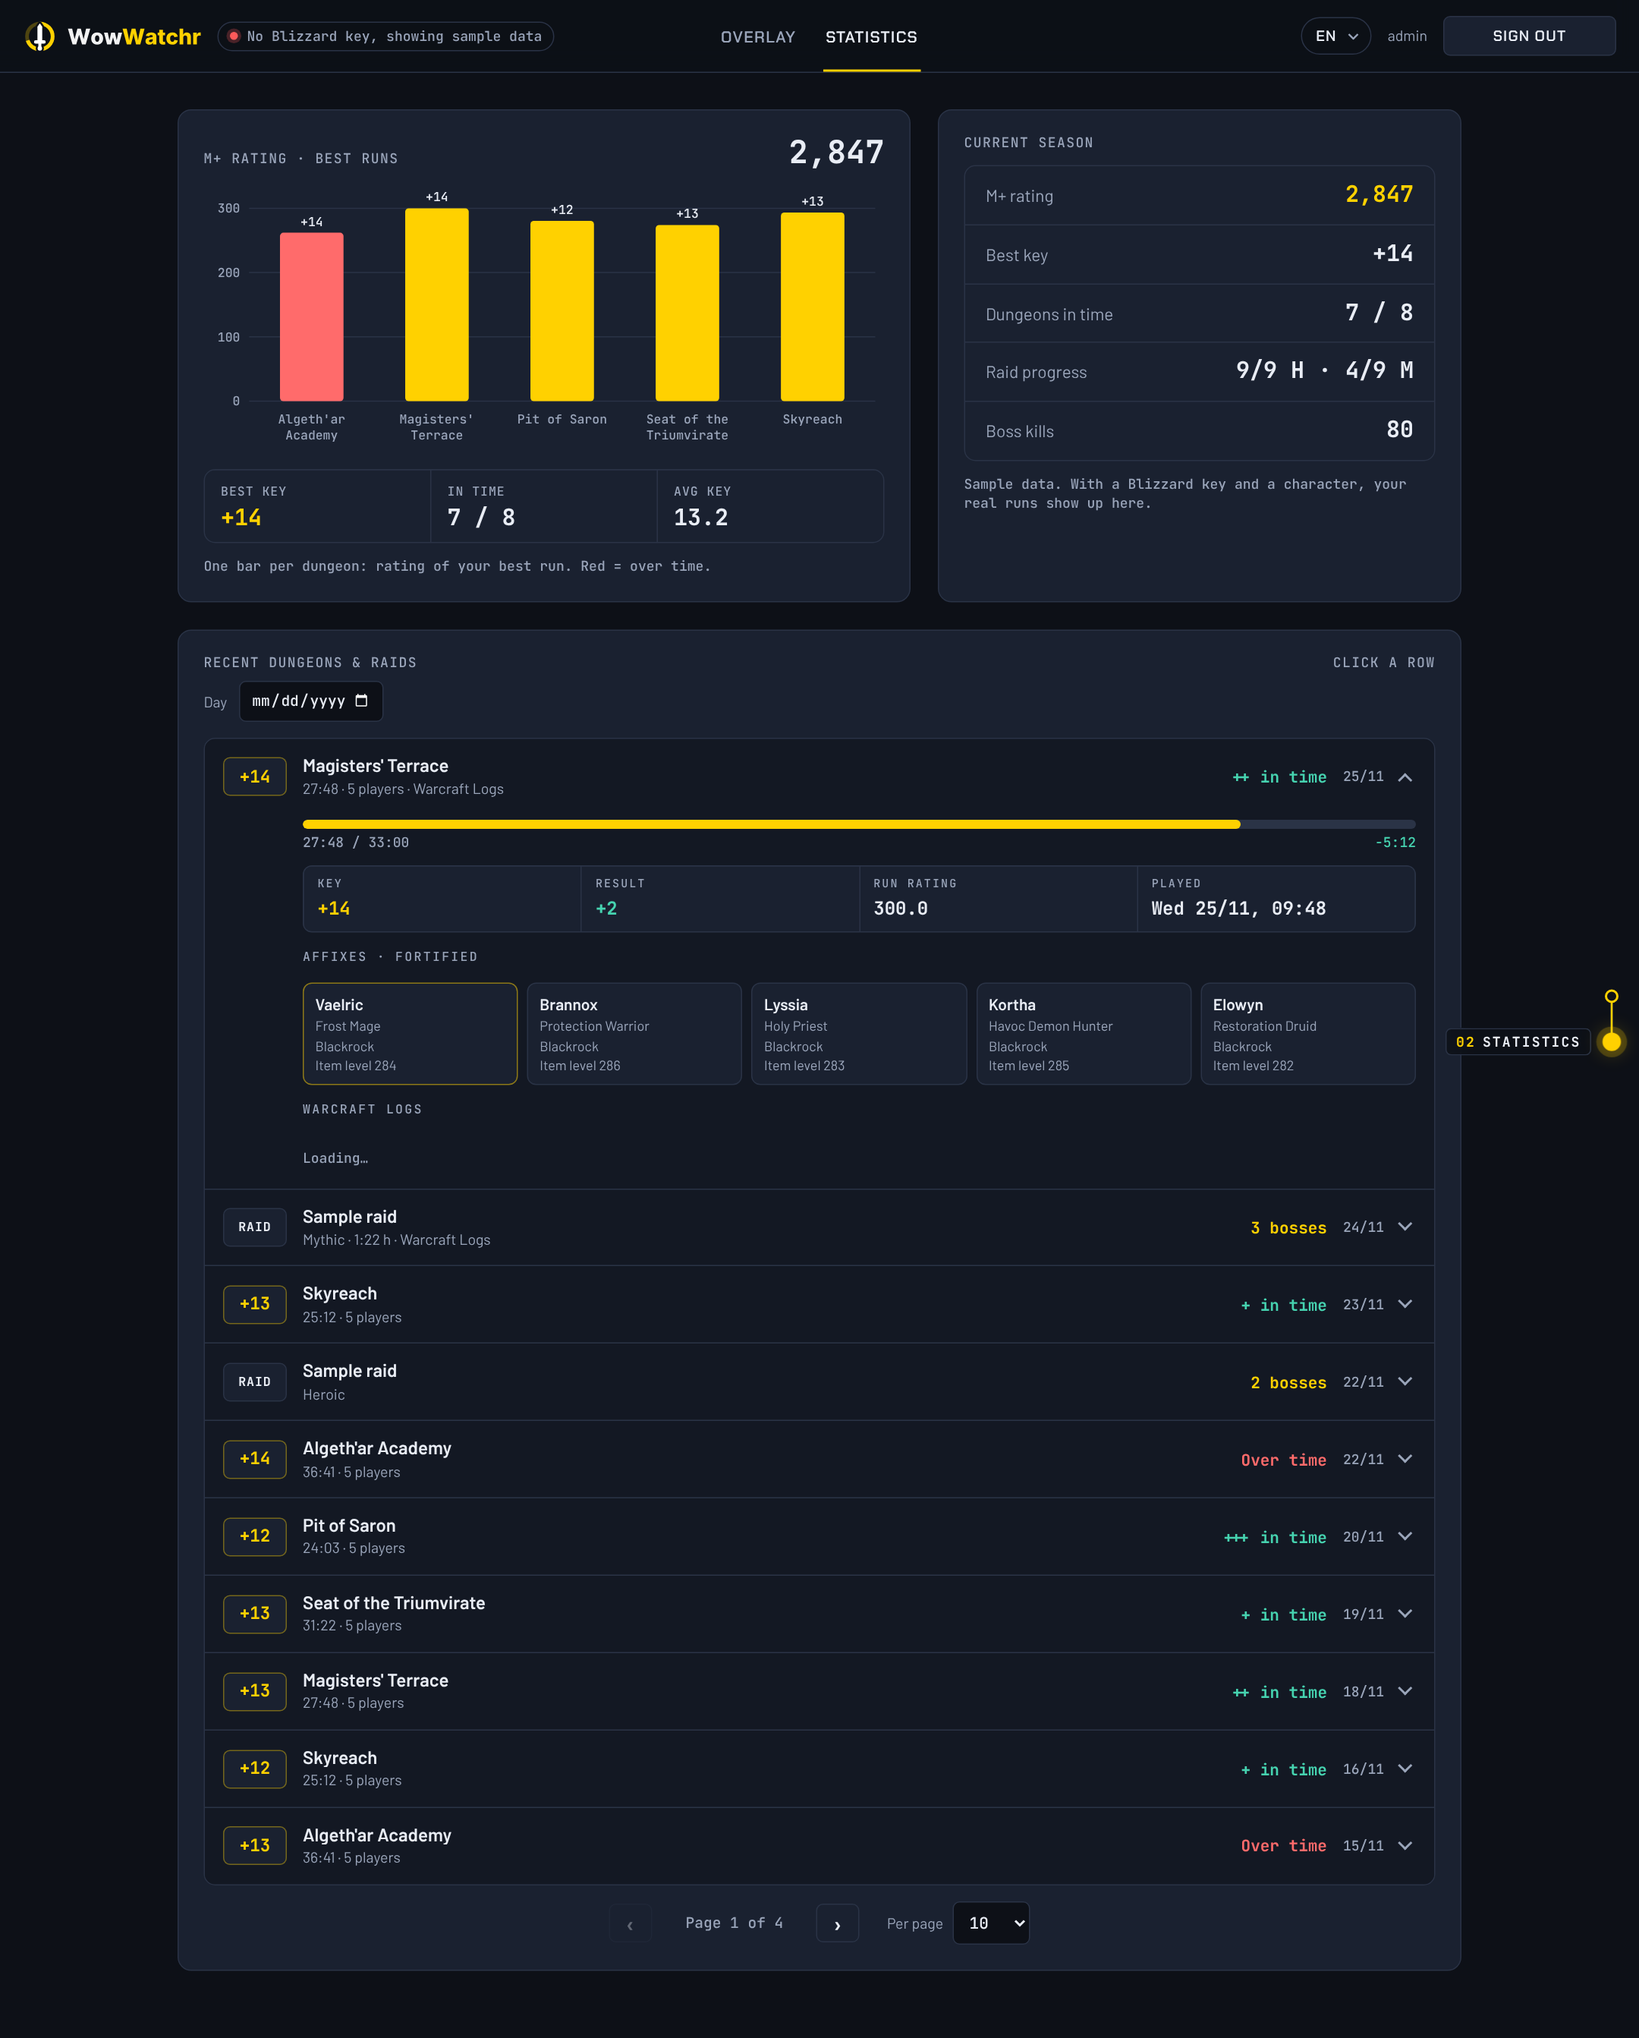
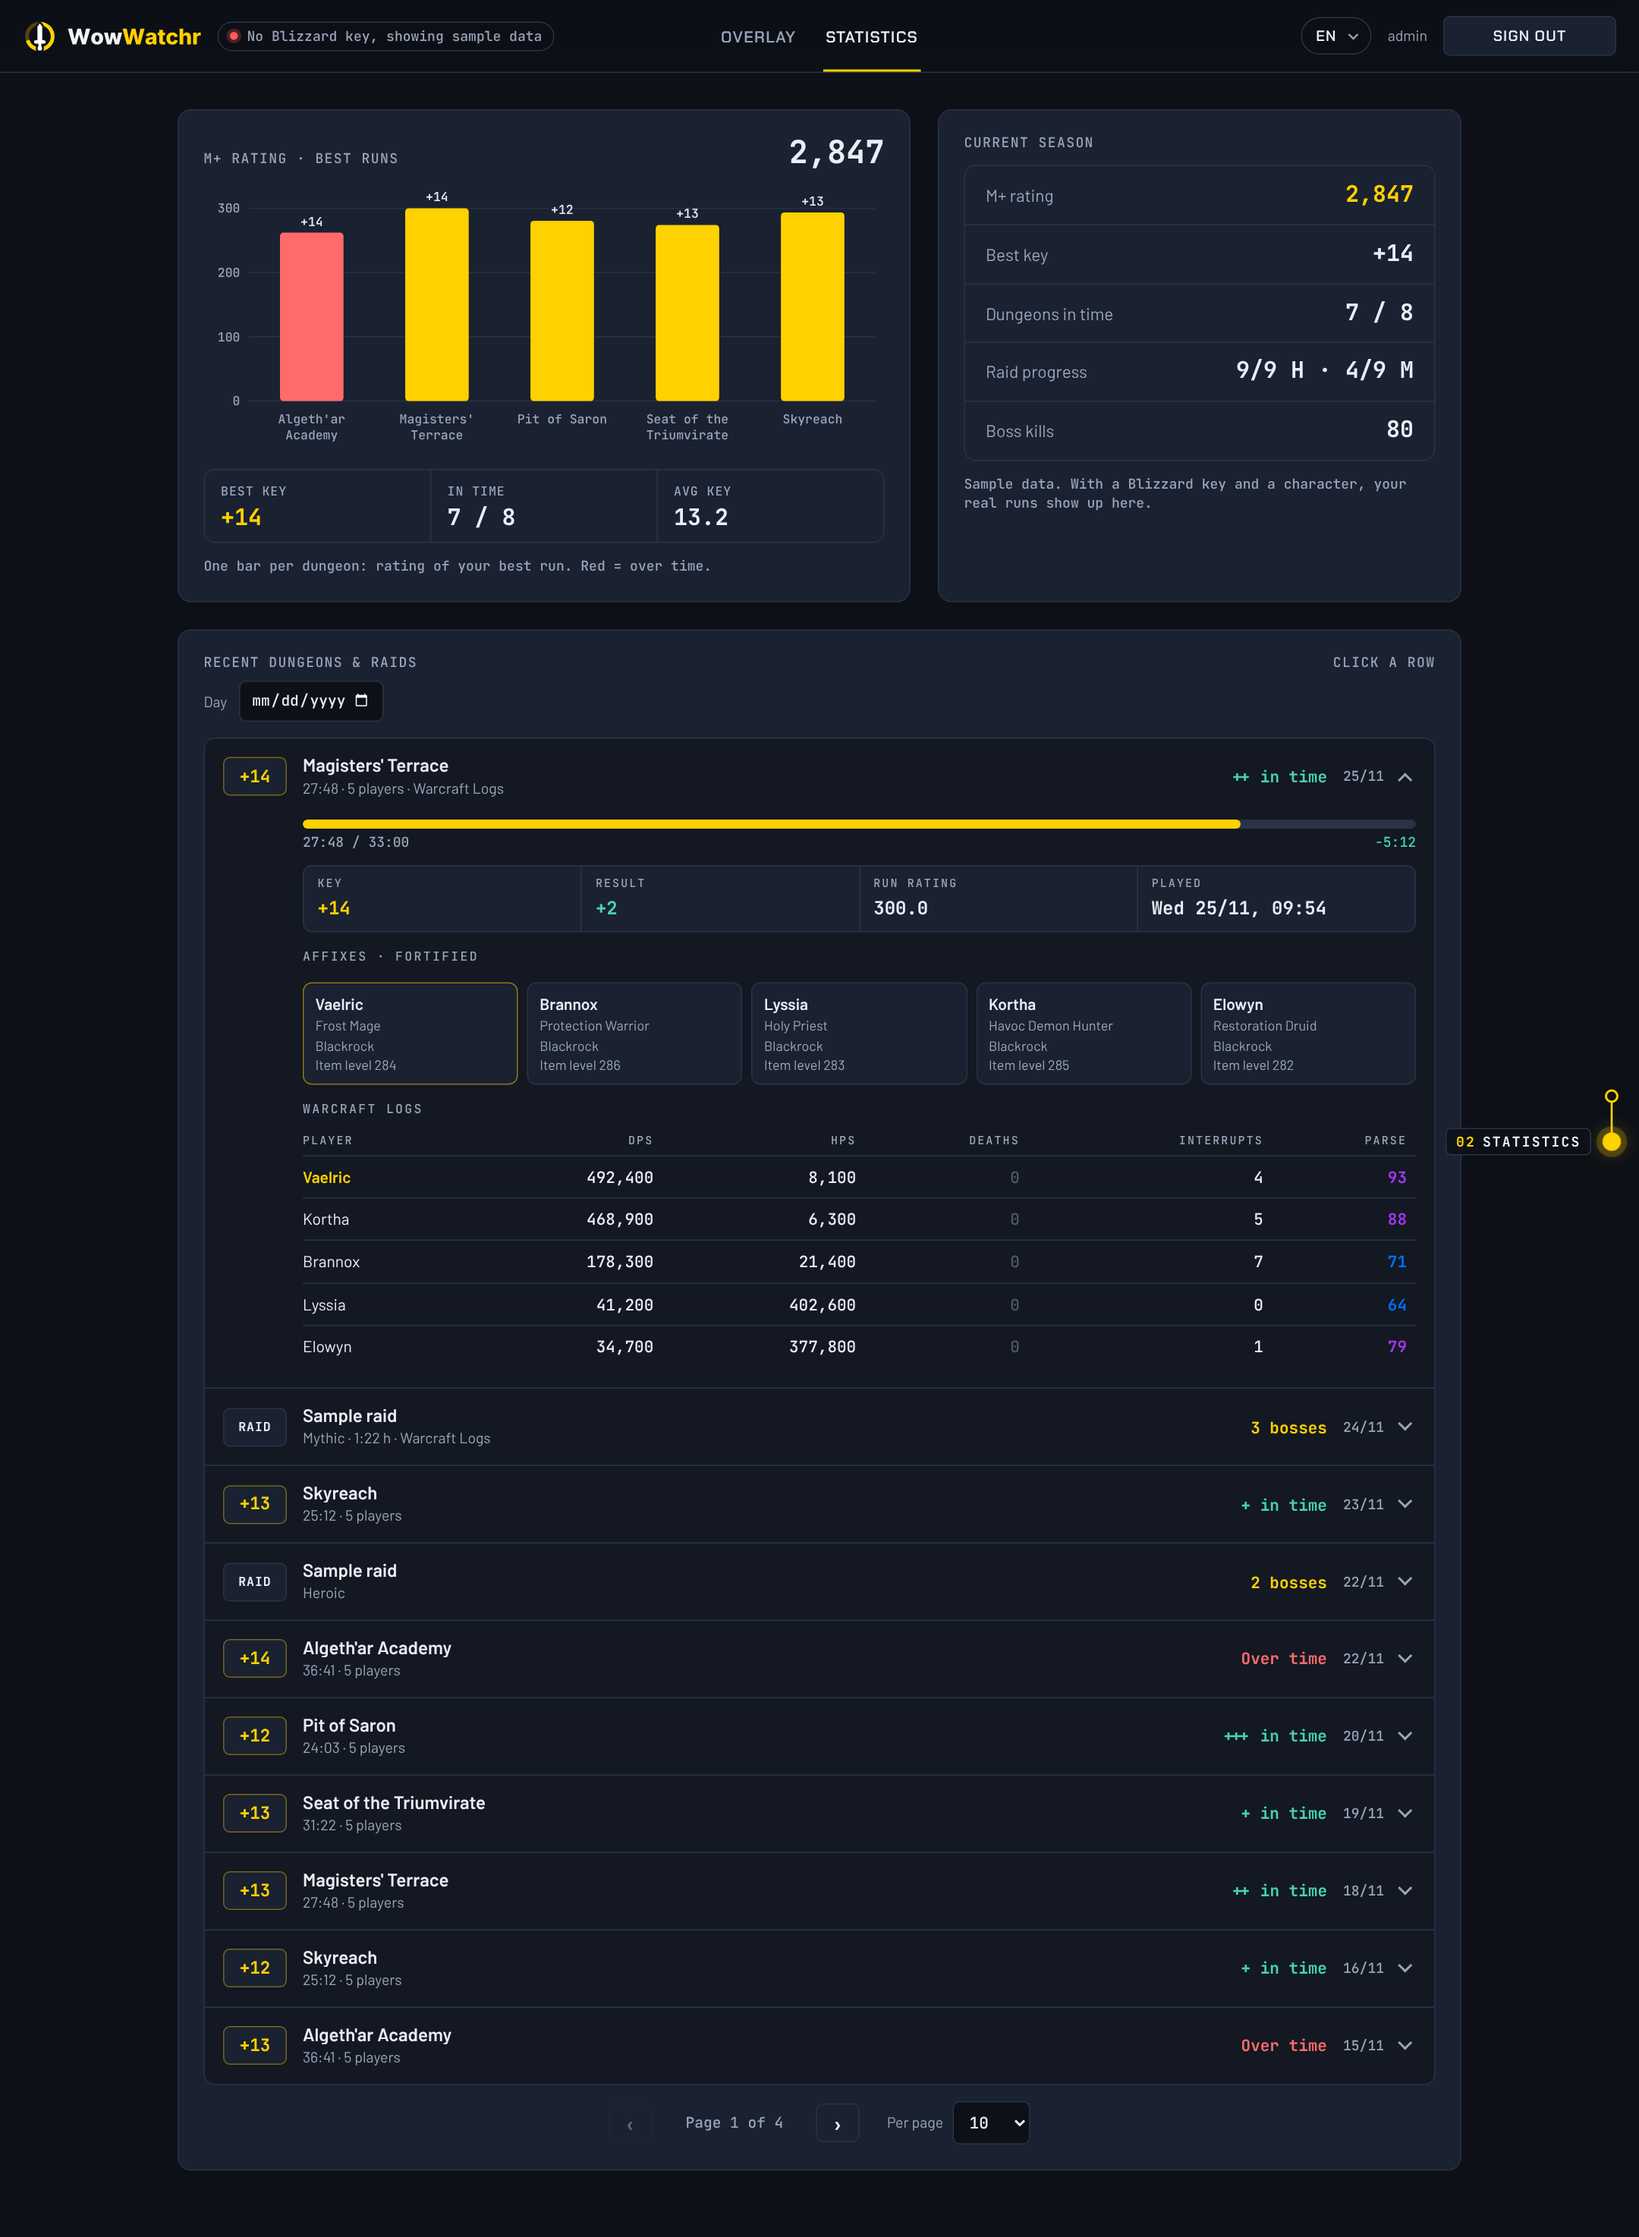
Run list: filter log raids by start day, load opened fights on first view, focus and mobile fixes

diff --git a/public/js/stats.js b/public/js/stats.js
@@ -33,18 +33,22 @@ const fill = (text, vars) => text.replace(/\{(\w+)\}/g, (_, k) => vars[k]);
 
 export async function loadStats(uiLang, uiGame) {
   lang = uiLang;
-  game = uiGame;
   const [stats, overlay] = await Promise.all([
     fetch('/api/stats', { cache: 'no-store' }).then((r) => (r.ok ? r.json() : null)).catch(() => null),
     fetch('/api/state', { cache: 'no-store' }).then((r) => (r.ok ? r.json() : null)).catch(() => null),
   ]);
   if (stats) data = stats;
   if (overlay) state = overlay;
-  renderStats(uiLang, game);
+  renderStats(uiLang, uiGame);
 }
 
 export function renderStats(uiLang, uiGame) {
   lang = uiLang;
+  // Anderes Spiel (Retail/Forever): Tag und Seite gelten für die alte Liste
+  if (uiGame !== game) {
+    pickedDay = '';
+    page = 0;
+  }
   game = uiGame;
   const t = TEXTS[lang];
   // Pro Dungeon zählt der neueste gespeicherte Run, das ist der aktuelle Bestwert bei Blizzard
@@ -180,8 +184,9 @@ const parseColor = (p) => (p >= 100 ? '#e5cc80' : p >= 99 ? '#e268a8' : p >= 95 
 function loadFightStats(root) {
   for (const box of root.querySelectorAll('.log-stats')) {
     const key = `${box.dataset.code}-${box.dataset.fight}`;
-    // Nur sichtbare Kämpfe abfragen, das schont das Abfrage-Kontingent bei Warcraft Logs
-    if (fightStats.has(key) || box.closest('[hidden]')) continue;
+    // Nur aufgeklappte Kämpfe abfragen, das schont das Abfrage-Kontingent bei Warcraft Logs.
+    // Nur innerhalb der Liste prüfen: die Statistik-Seite selbst ist beim ersten Zeichnen noch versteckt (Wechsel-Animation)
+    if (fightStats.has(key) || box.closest('#runList [hidden]')) continue;
     fightStats.set(key, 'loading');
     fetch(`/api/stats/fight?code=${encodeURIComponent(box.dataset.code)}&fight=${box.dataset.fight}`, { cache: 'no-store' })
       .then((r) => (r.ok ? r.json() : Promise.reject()))
@@ -229,7 +234,7 @@ function logRaidRow(t, report) {
       }).join('')}
     </tbody></table></div>
     ${list.map((b, i) => { const f = b.kill ?? b.tries.at(-1); return `<div class="boss-stats" data-boss="${i}"${i ? ' hidden' : ''}><div class="sub">${esc(name(b.name))} · ${esc(b.kill ? t.stKill : t.stLastTry)}</div>${logBlock(t, report.code, f.id, false)}</div>`; }).join('')}`;
-  return { id, at: report.end, day: new Date(report.start).toDateString(), html: () => row(id, raidBadge(t), name(report.zone), `${diffs} · ${hmm(length)} · ${t.stLogs}`, `<span class="res gold">${esc(killed === 1 ? t.stBossOne : fill(t.stBosses, { n: killed }))}</span>`, report.start, detail) };
+  return { id, at: report.end, dayAt: report.start, day: new Date(report.start).toDateString(), html: () => row(id, raidBadge(t), name(report.zone), `${diffs} · ${hmm(length)} · ${t.stLogs}`, `<span class="res gold">${esc(killed === 1 ? t.stBossOne : fill(t.stBosses, { n: killed }))}</span>`, report.start, detail) };
 }
 
 /** Dungeons aus Warcraft Logs: an den passenden Blizzard-Run hängen, sonst eigene Zeile */
@@ -309,6 +314,8 @@ const dayKey = (at) => {
   const d = new Date(at);
   return `${d.getFullYear()}-${String(d.getMonth() + 1).padStart(2, '0')}-${String(d.getDate()).padStart(2, '0')}`;
 };
+/** Tag einer Zeile: der angezeigte Tag (Raids aus Warcraft Logs zeigen den Start, sortiert wird nach dem Ende) */
+const rowDay = (r) => dayKey(r.dayAt ?? r.at);
 
 function renderList(t) {
   listTexts = t;
@@ -333,14 +340,15 @@ function renderList(t) {
   // Tag-Filter: Datumsfeld nur vom ersten bis zum letzten Tag mit Einträgen
   const input = $('runDay');
   if (rows.length) {
-    input.min = dayKey(rows[rows.length - 1].at);
-    input.max = dayKey(rows[0].at);
+    const days = rows.map(rowDay).sort();
+    input.min = days[0];
+    input.max = days[days.length - 1];
   }
-  input.value = pickedDay;
+  if (input.value !== pickedDay && document.activeElement !== input) input.value = pickedDay;
   $('dayLabel').textContent = t.stDay;
   $('runDayAll').textContent = t.stAllDays;
   $('runDayAll').hidden = !pickedDay;
-  const shown = pickedDay ? rows.filter((r) => dayKey(r.at) === pickedDay) : rows;
+  const shown = pickedDay ? rows.filter((r) => rowDay(r) === pickedDay) : rows;
   const pages = Math.max(1, Math.ceil(shown.length / perPage));
   page = Math.min(page, pages - 1);
   $('runList').innerHTML = shown.slice(page * perPage, (page + 1) * perPage).map((r) => r.html()).join('') || `<li class="empty">${esc(pickedDay ? t.stNoDay : t.stNoRuns)}</li>`;
@@ -357,8 +365,10 @@ function renderList(t) {
 
 // Blättern: danach an den Anfang der Liste, damit man nicht unten auf der neuen Seite landet
 function turn(delta) {
-  page += delta;
+  page = Math.max(0, page + delta);
   renderList(listTexts);
+  // Wird der gedrückte Pfeil deaktiviert (erste/letzte Seite), den Fokus auf den anderen setzen
+  if (document.activeElement?.disabled || document.activeElement === document.body) (delta > 0 ? $('pagePrev') : $('pageNext')).focus();
   $('runList').scrollIntoView({ block: 'start', behavior: matchMedia('(prefers-reduced-motion: reduce)').matches ? 'auto' : 'smooth' });
 }
 $('runDay').addEventListener('change', (e) => {

diff --git a/public/editor.html b/public/editor.html
@@ -138,7 +138,7 @@
         <ul class="runs" id="runList"></ul>
         <div class="pager" id="runPager" hidden>
           <button id="pagePrev" type="button" class="page-btn">‹</button>
-          <span id="pageInfo"></span>
+          <span id="pageInfo" aria-live="polite"></span>
           <button id="pageNext" type="button" class="page-btn">›</button>
           <label class="per-page"><span id="perPageLabel"></span>
             <select id="perPage"><option>10</option><option>25</option><option>50</option><option>100</option></select>

diff --git a/public/css/editor.css b/public/css/editor.css
@@ -134,6 +134,7 @@ button[type='submit']:hover { filter: brightness(1.06); }
 .page-btn:disabled { opacity: .35; cursor: default; }
 .per-page { display: flex; align-items: center; gap: 8px; margin-left: 12px; color: var(--muted); font-size: 13px; }
 .per-page select { font-family: var(--f-mono); }
+@media (max-width: 480px) { .per-page { margin-left: 0; flex-basis: 100%; justify-content: center; } }
 
 /* Layout-Auswahl */
 .choices { display: grid; grid-template-columns: repeat(3, minmax(0, 1fr)); gap: 6px; }

diff --git a/README.md b/README.md
@@ -26,7 +26,7 @@ Show your **World of Warcraft** stats in your OBS stream: character, Mythic+ and
 
 ![Editor with the overlay preview](docs/screenshots/editor.png)
 
-**Statistics:** your M+ rating per dungeon, the current season, and your recent dungeons and raids. Click a row to see the group, timer, affixes, the bosses killed and, with Warcraft Logs, tries, kill times and the stats of every player. Pick a day to see only that day's runs. The list is split into pages with arrows at the bottom; choose 10, 25, 50 or 100 rows per page, and the editor remembers it.
+**Statistics:** your M+ rating per dungeon, the current season, and your recent dungeons and raids. Click a row to see the group, timer, affixes, the bosses killed and, with Warcraft Logs, tries, kill times and the stats of every player. Pick a day to see only that day's runs. The list is split into pages with arrows at the bottom; choose 10, 25, 50 or 100 rows per page, and your browser remembers it.
 
 ![Statistics view with best runs, season and recent dungeons and raids](docs/screenshots/stats.png)
 
